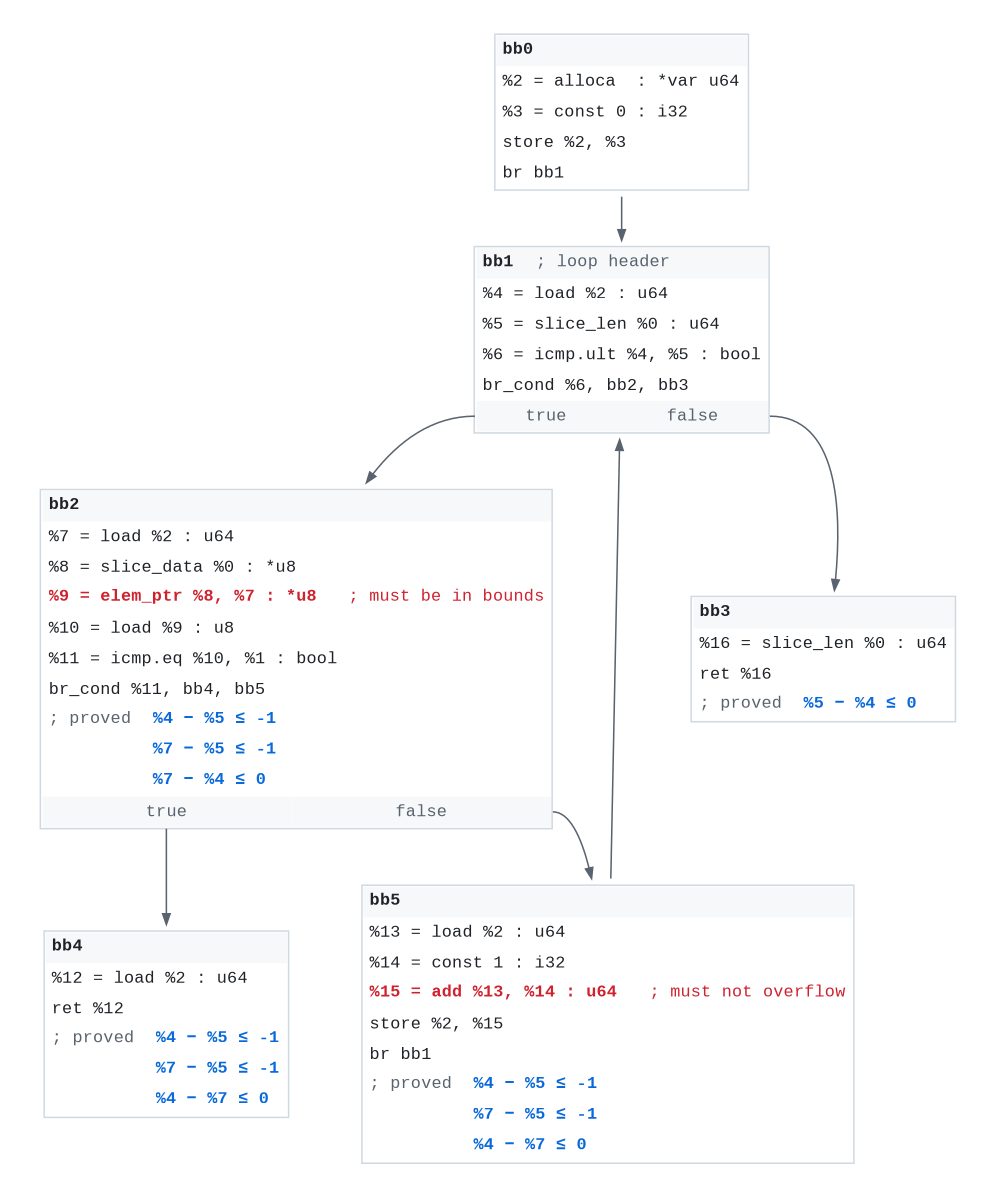
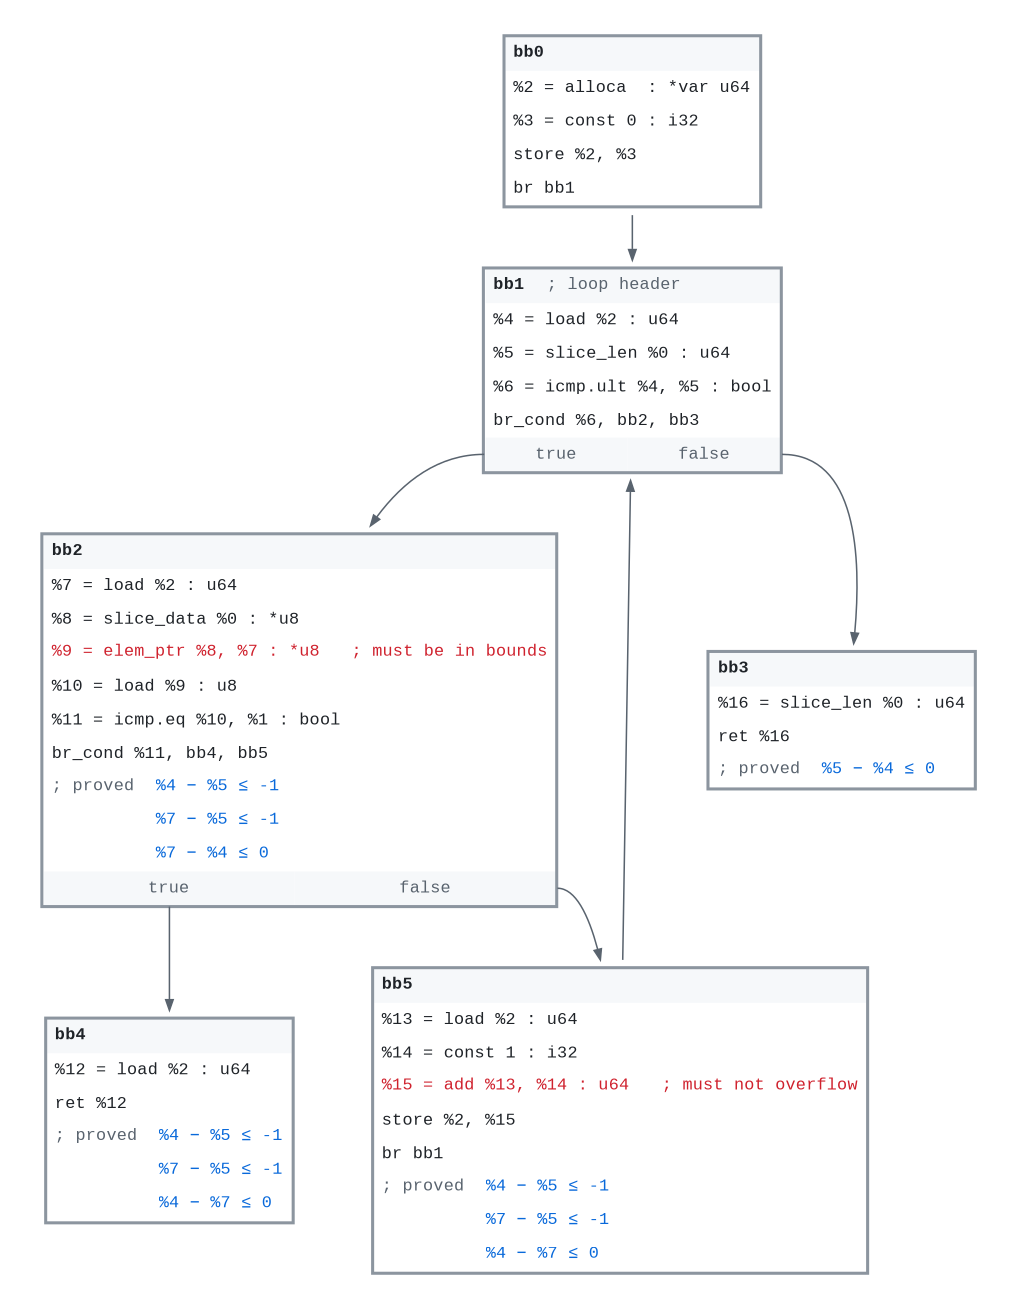
docs(readme): say what the proofs buy up front; sharpen step 2; transparent figure
Intro now states the second use of the proofs, which the page never mentioned
before chapter 4: each proof is also a fact an optimiser can act on. Exclusive
access becomes `restrict`, an empty effect set becomes `const`, a declared length
becomes `access`. A C programmer can write all of those by hand and nothing checks
them when they do.

★ Deliberately NOT claiming faster than expert C. The claim written is parity with
careful C, and ahead of any build still paying for checks at runtime (4.28x on the
gather). Going further would contradict chapter 4 and bench/thesis/README.md, both
of which say in as many words that the win is over runtime-CHECKED safety and not
over hand-tuned C. The measured `restrict` advantage over expert C is ~1.02x.

Wording:
  - pipeline reads "C99" and "LLVM", no "today", no "seam";
  - dropped "Today that backend is C99." and the Rust concurrency/ecosystem aside;
  - chapter 1 now opens by introducing the program (a byte search whose length is
    unknown at compile time, so every access needs justifying against a number
    that only exists at runtime) instead of announcing that a program follows.

Step 2 was too vague to follow. "Until the answers stop changing" is now stated as
what it is: facts are pushed along the edges, a loop is walked more than once
because what holds at the header depends on what the body did last time, and it
stops when a pass adds nothing new, which is why the result holds on every
[…]

diff --git a/assets/figures/mkcfg_ir.py b/assets/figures/mkcfg_ir.py
@@ -60,7 +60,7 @@ OBLIG = [(re.compile(r'\belem_ptr\b'), "must be in bounds"),
 # GitHub light palette
 FG      = "#1f2328"   # default text
 MUTED   = "#59636e"   # comments, edges
-BORDER  = "#d1d9e0"   # box borders
+BORDER  = "#8c959f"   # box borders
 SUBTLE  = "#f6f8fa"   # header band
 DANGER  = "#cf222e"   # obligations owed
 ACCENT  = "#0969da"   # facts proved
@@ -70,7 +70,7 @@ def esc(t):
 
 def emit(blocks, order, edges, facts, out, func, max_insn):
     L = ['digraph ir {',
-         '  graph [bgcolor="white", fontname="Helvetica", nodesep=0.34, ranksep=0.40];',
+         '  graph [bgcolor="transparent", fontname="Helvetica", nodesep=0.36, ranksep=0.42];',
          f'  node  [shape=plaintext, fontname="SFMono-Regular,Menlo,monospace", fontsize=11];',
          f'  edge  [fontname="Helvetica", fontsize=10, color="{MUTED}", '
          f'fontcolor="{MUTED}", arrowsize=0.7];']
@@ -88,7 +88,7 @@ def emit(blocks, order, edges, facts, out, func, max_insn):
             why = next((t for rx, t in OBLIG if rx.search(ins)), None)
             if why:
                 rows.append(f'<tr><td align="left" colspan="2">'
-                            f'<font color="{DANGER}"><b>{esc(ins)}</b></font>'
+                            f'<font color="{DANGER}">{esc(ins)}</font>'
                             f'<font color="{DANGER}">   ; {why}</font></td></tr>')
             else:
                 rows.append(f'<tr><td align="left" colspan="2">'
@@ -101,7 +101,7 @@ def emit(blocks, order, edges, facts, out, func, max_insn):
             lead = '; proved  ' if i == 0 else '&#160;' * 10
             rows.append(f'<tr><td align="left" colspan="2">'
                         f'<font color="{MUTED}">{lead}</font>'
-                        f'<font color="{ACCENT}"><b>{esc(f)}</b></font></td></tr>')
+                        f'<font color="{ACCENT}">{esc(f)}</font></td></tr>')
 
         if has_cond:
             rows.append(f'<tr><td port="s0" align="center" bgcolor="{SUBTLE}">'
@@ -109,8 +109,8 @@ def emit(blocks, order, edges, facts, out, func, max_insn):
                         f'<td port="s1" align="center" bgcolor="{SUBTLE}">'
                         f'<font color="{MUTED}">false</font></td></tr>')
 
-        L.append(f'  {b} [label=<<table border="1" cellborder="0" cellspacing="0" '
-                 f'cellpadding="4" color="{BORDER}" bgcolor="white">{"".join(rows)}</table>>];')
+        L.append(f'  {b} [label=<<table border="2" cellborder="0" cellspacing="0" '
+                 f'cellpadding="5" color="{BORDER}" bgcolor="white">{"".join(rows)}</table>>];')
 
     for a, b, lab in edges:
         port = '' if not cond.get(a) else (':s0' if lab == 'true' else ':s1')

diff --git a/README.md b/README.md
@@ -7,10 +7,17 @@ termination are **proven at compile time** and therefore **not checked at runtim
 that could read out of bounds, overflow, divide by zero, use a moved value or leak a resource
 does not compile.
 
+Rejecting programs is only half of what the proofs are for. Each one is also a fact about how
+the code behaves, and facts are what an optimiser is short of. Exclusive access becomes
+`restrict`. A function with no effects becomes `const`. A parameter's declared length becomes
+`access`. A C programmer can write every one of those by hand, and nothing checks them when they
+do. So the generated code lands where careful C lands, and ahead of any build that is still
+paying for its checks at runtime: on the gather in chapter 4 that difference is 4.28x.
+
 ```
  your.ln ──▶ front end ──▶ Lain-IR ──▶ analyses ──▶ backend ──▶ executable
-                          typed SSA    ownership     C99 today
-                           and CFG     borrows       LLVM seam
+                          typed SSA    ownership     C99
+                           and CFG     borrows       LLVM
                                        bounds
                                        overflow
                                        termination
@@ -18,7 +25,7 @@ does not compile.
 ```
 
 Every analysis runs on the IR. None of them looks at the source text or at the output target,
-so the same proofs hold whichever backend emits the code. Today that backend is C99.
+so the same proofs hold whichever backend emits the code.
 
 ## Guarantees
 
@@ -37,9 +44,6 @@ so the same proofs hold whichever backend emits the code. Today that backend is 
 | Aliasing told to the optimiser | manual `restrict`, UB if wrong | same | `noalias` from `&mut` | **Derived from the borrow proof** |
 | Sum-type layout | manual | manual | Niche packing, silent | **Niche packing, and it warns when it fails** |
 | Data races | UB | UB | Prevented | Single-threaded before 1.0 |
-
-Rust has a concurrency story and an ecosystem. Everything else in that column is a design
-difference, not a maturity gap.
 
 † One class escapes the shipping binary today, the loop-carried accumulator. It is stated in
 full, with the program that miscomputes, in [11. Limits](#11-limits).
@@ -65,7 +69,9 @@ full, with the program that miscomputes, in [11. Limits](#11-limits).
 
 # 1. Proof Engine
 
-One program, followed from source to machine code.
+The program below searches a slice of bytes for a value. The slice length is not known when the
+program is compiled, so every access into it has to be justified against a number that only
+exists at runtime.
 
 ```lain
 func find(haystack u8[], target u8) usize {
@@ -90,16 +96,19 @@ overflow, and the back edge into a loop header has to be shown to terminate.
 has to prove, blue what was proved there. In <code>bb2</code> the index <code>%7</code> is compared
 against the length <code>%5</code>, which is what settles the access on the line above.</sub></p>
 
-**Step 2. Work out what the values can be.** The compiler walks the graph over and over until
-the answers stop changing. For each value it tracks two kinds of fact: the range that value can
-take, and how it compares to the other values.
+**Step 2. Work out what the values can be.** The compiler attaches a set of facts to each value
+and pushes those facts along the edges of the graph. A loop has to be walked more than once,
+because what is true entering the header depends on what the body did last time round; it keeps
+walking until another pass adds nothing new. For a loop, that means the facts it ends up with
+hold on every iteration, not just the first.
 
-The second kind is the one that matters. Knowing `i` sits somewhere in `[0, 2^64)` proves
-nothing about an array access. Knowing `i` is smaller than the length proves everything, and the
-length is not a number the compiler knows either. Facts of that shape are what the octagon
-domain is for.
+Two kinds of fact are recorded. One is the range a single value can take. The other is how two
+values compare to each other, which for an array access is usually the one that decides it.
+`i ∈ [0, 2^64)` tells you nothing useful, and no range for the length helps either when the
+length is only known at runtime. `i` being smaller than that length settles the access whatever
+the two turn out to be.
 
-`--dump-octagon` prints the facts the compiler settled on at the array access:
+`--dump-octagon` prints what the compiler settled on at the array access:
 
 ```
 ── octagon state: find ──
